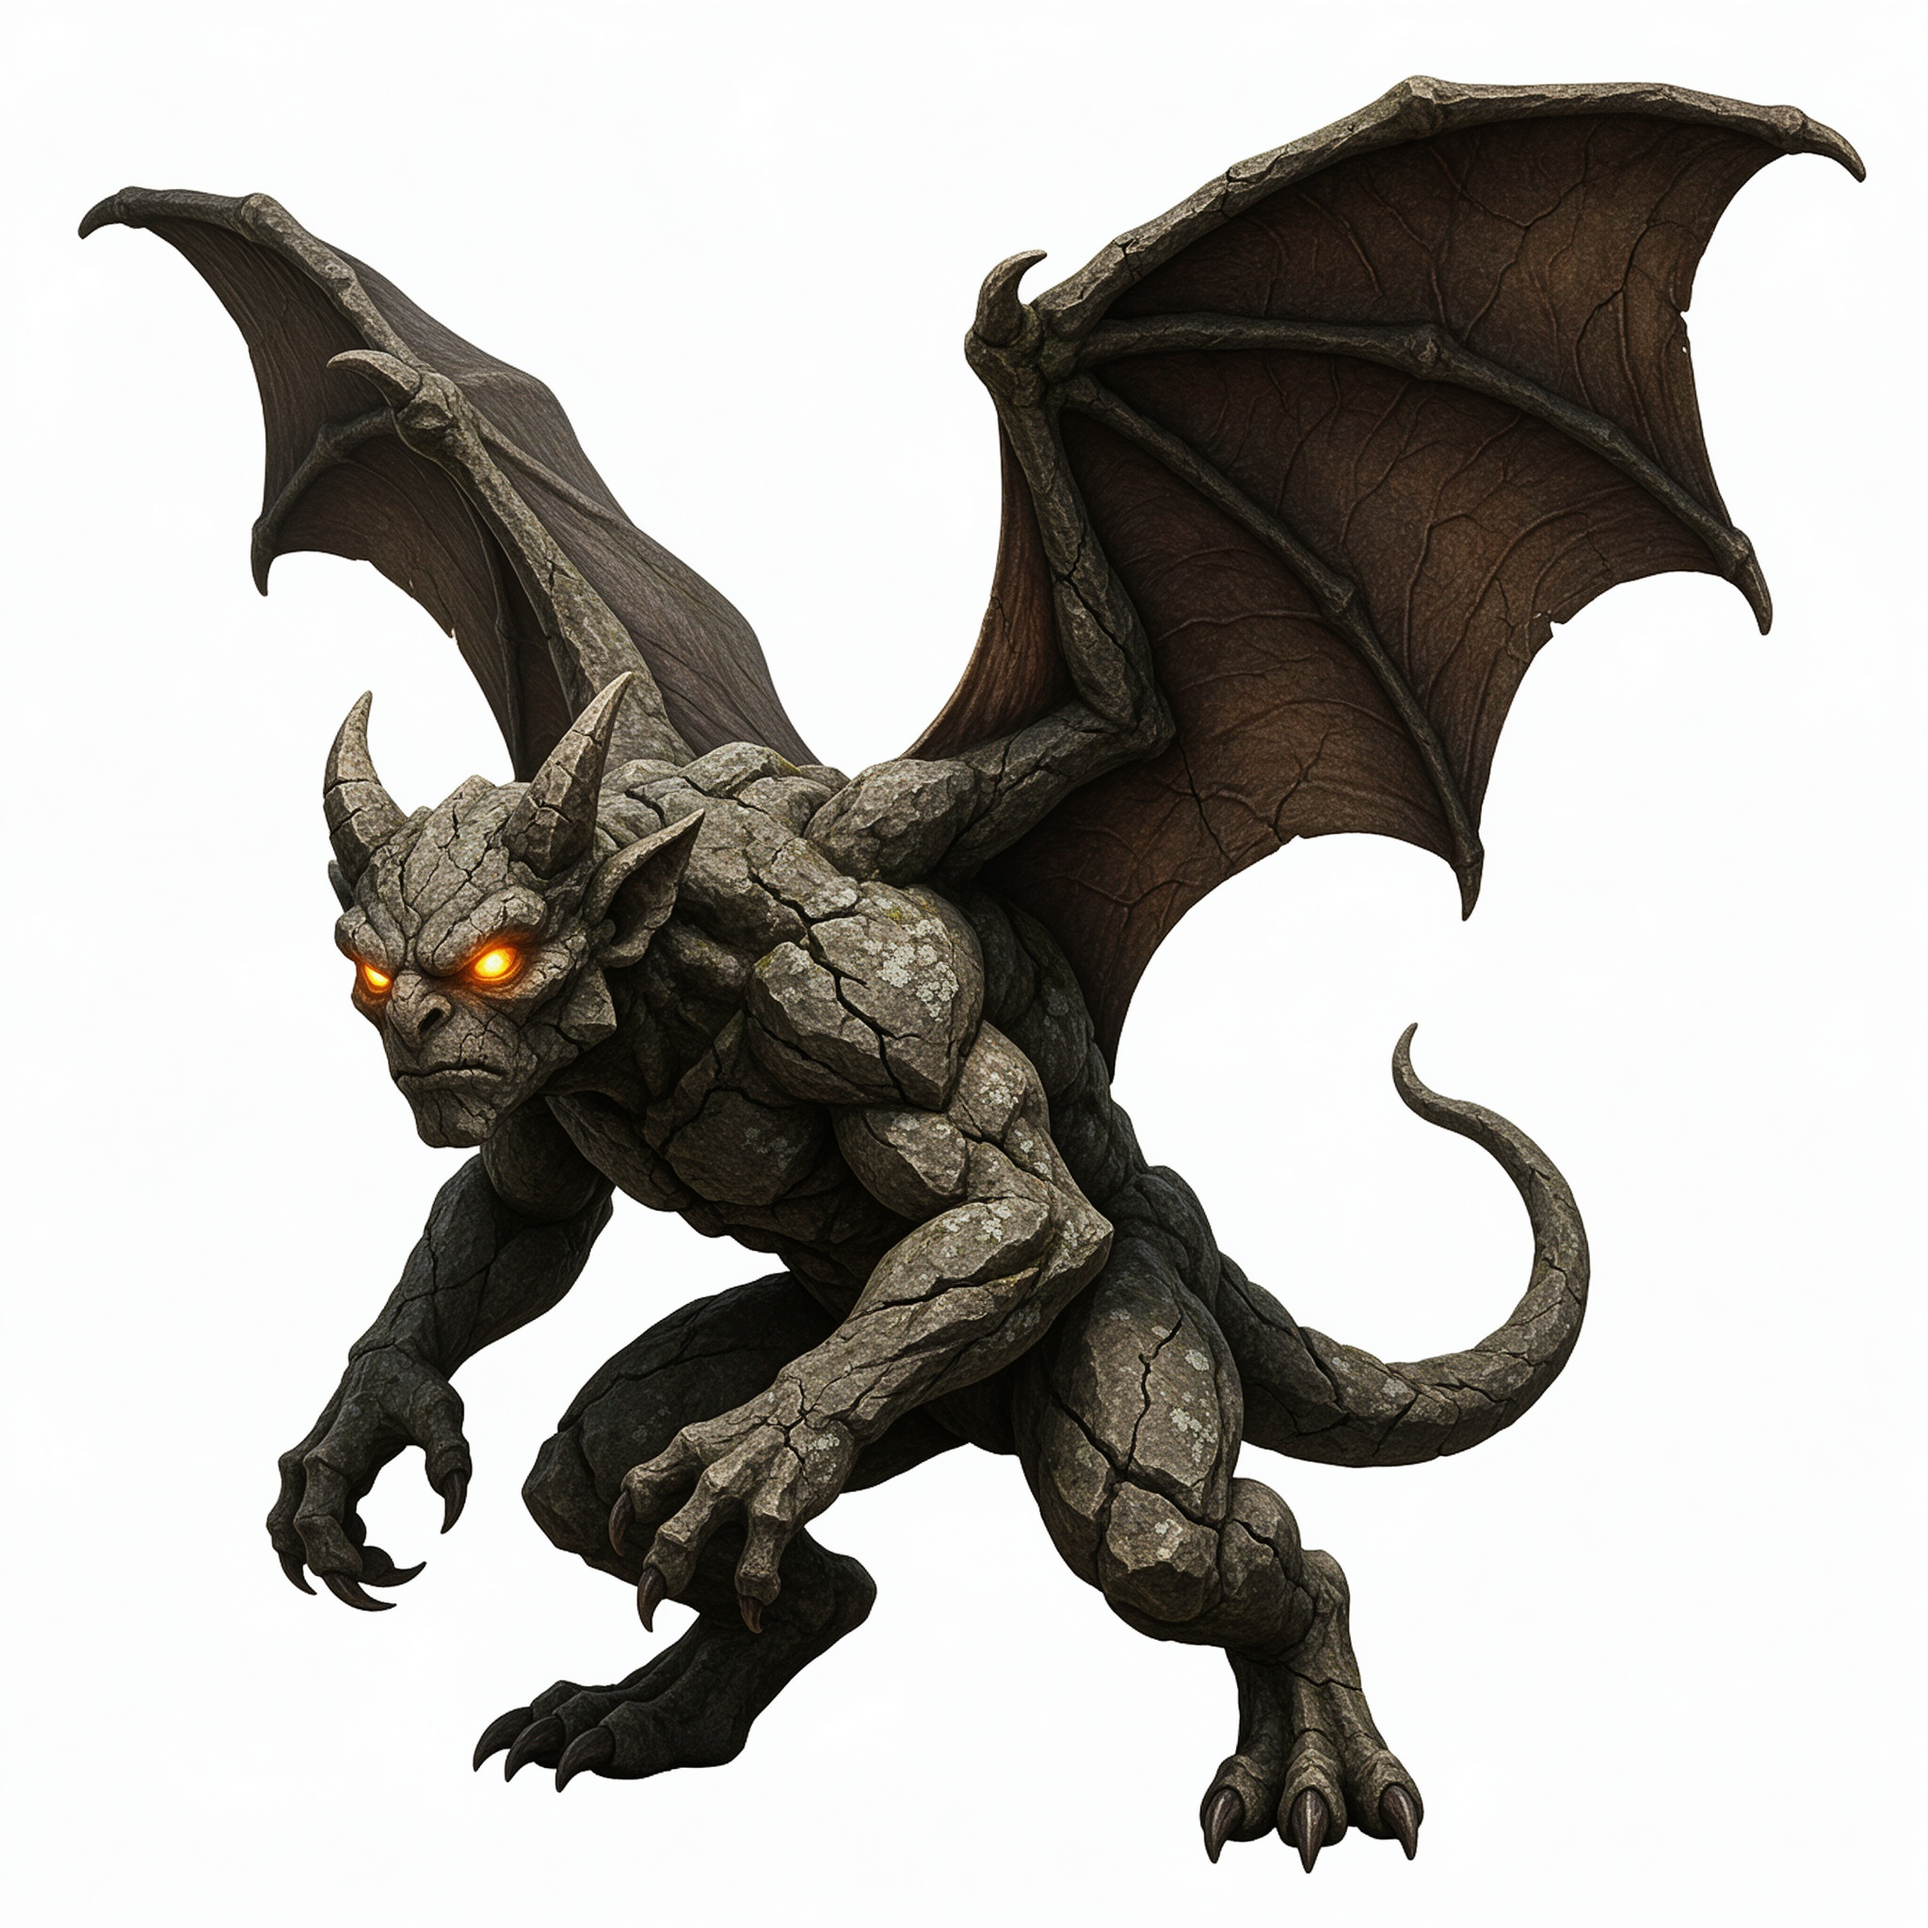
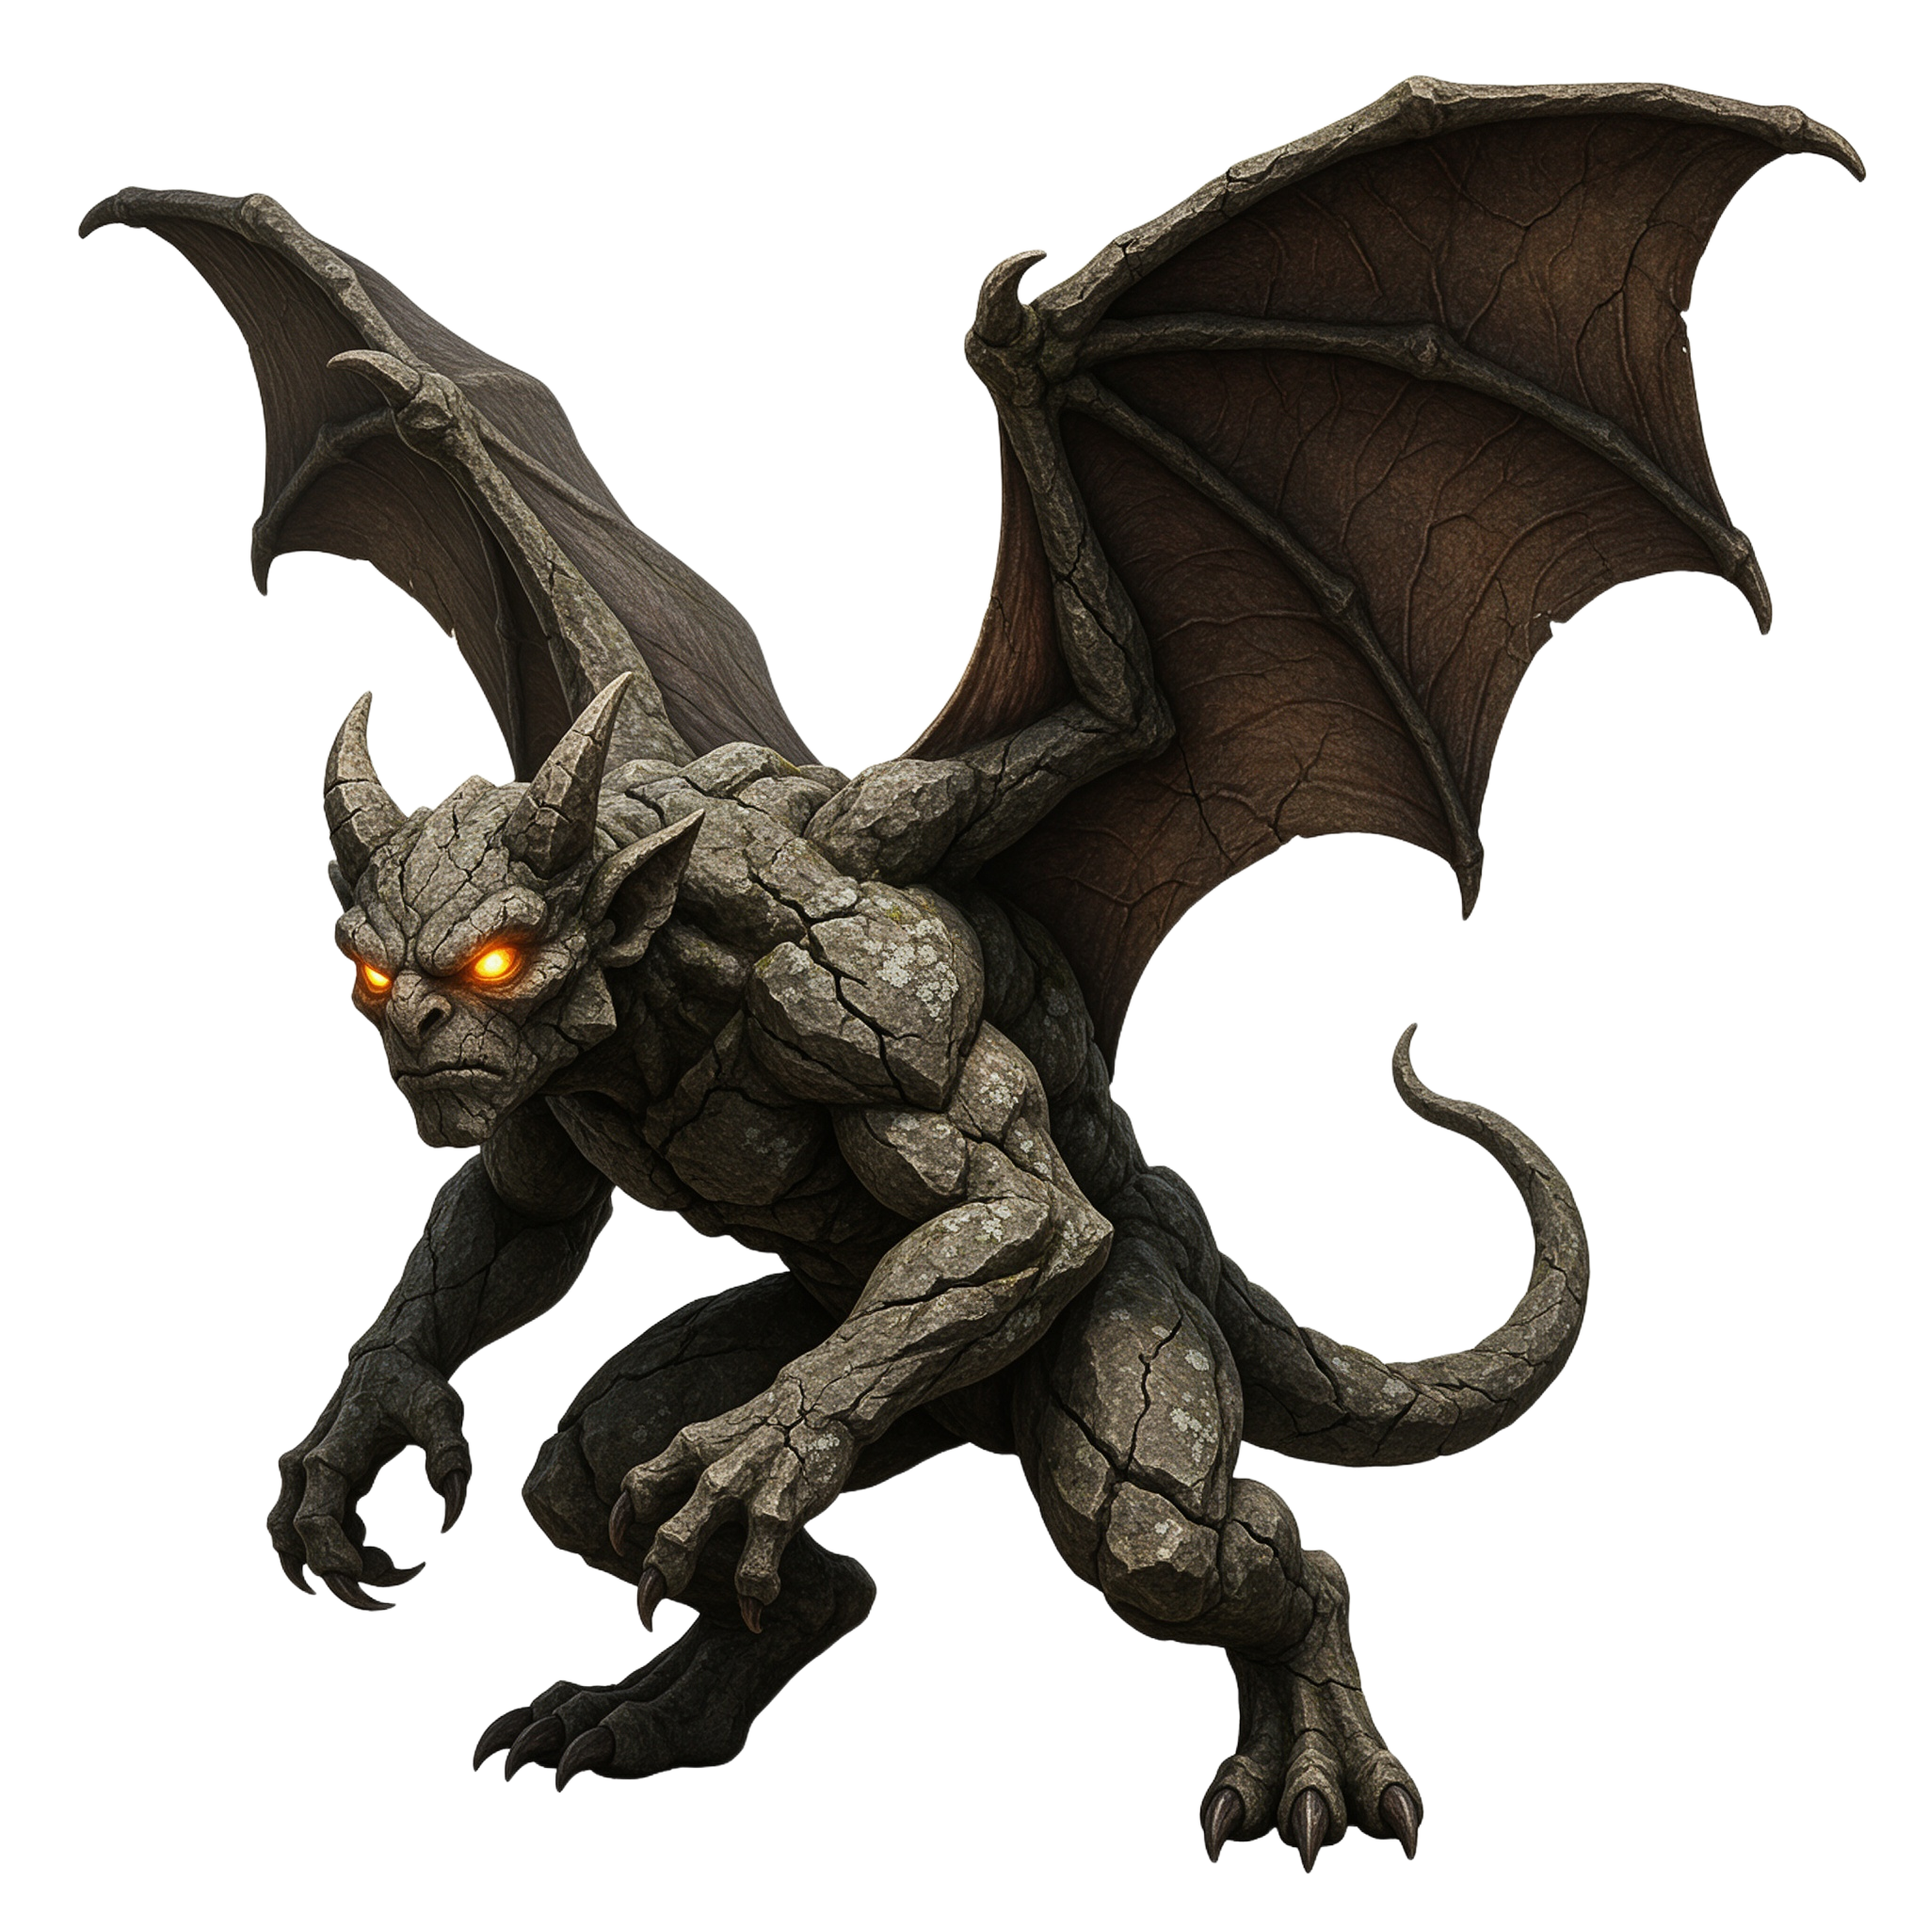
v2.6: Seedream5.0真实怪物贴图接入(蝙蝠/蜘蛛/狼/蝗虫/石魔像/树精/石像鬼/影魔/野猪王+T1T2Boss)+受击暗红血雾粒子

diff --git a/js/expedition.js b/js/expedition.js
@@ -152,21 +152,22 @@ class Expedition {
       sprite.src = `assets/obstacles/${type}.webp`;
       this.obstacleSprites[type] = sprite;
     });
-    ['bat', 'spider', 'boar'].forEach(type => {
-      this.monsterSprites[type] = {};
-      ['idle', 'attack', 'hit', 'death'].forEach(state => {
-        const sprite = new Image();
-        sprite.src = `assets/monsters/${type}-${state}.webp`;
-        this.monsterSprites[type][state] = sprite;
-      });
-    });
-    // v1.7 新怪物贴图
-    const newMobs = {
-      treant: 'docs/art/enemies/treant.png',
-      gargoyle: 'docs/art/enemies/gargoyle.png',
-      shadow_demon: 'docs/art/enemies/shadow_demon.png'
+    // v2.6 Seedream 5.0 真实怪物贴图（已去背景）
+    const v3mobs = {
+      bat: 'docs/art/enemies/bat_v3.png',
+      spider: 'docs/art/enemies/spider_v3.png',
+      boar: 'docs/art/enemies/boar_king_v3.png',
+      wolf: 'docs/art/enemies/wolf_v3.png',
+      locust: 'docs/art/enemies/locust_v3.png',
+      treant: 'docs/art/enemies/treant_v3.png',
+      gargoyle: 'docs/art/enemies/gargoyle_v3.png',
+      shadow_demon: 'docs/art/enemies/shadow_demon_v3.png',
+      boar_king: 'docs/art/enemies/boar_king_v3.png',
+      stone_golem: 'docs/art/enemies/stone_golem_v3.png',
+      't1-stone-maw': 'docs/art/enemies/boss_t1.png',
+      't2-storm-drake': 'docs/art/enemies/boss_t2.png'
     };
-    for (const [type, src] of Object.entries(newMobs)) {
+    for (const [type, src] of Object.entries(v3mobs)) {
       this.monsterSprites[type] = {};
       const img = new Image();
       img.src = src;
@@ -182,6 +183,8 @@ class Expedition {
     this.fxSprites.gargoyle.src = 'docs/art/mobfx/gargoyle_dive.png';
     this.fxSprites.shadow.src = 'docs/art/mobfx/shadow_blink.png';
     this.fxSprites.boar.src = 'docs/art/mobfx/boar_charge.png';
+    this.fxSprites.hitBlood = new Image(); this.fxSprites.hitBlood.src = 'docs/art/effects/hit_blood.png';
+    this.fxSprites.playerHit = new Image(); this.fxSprites.playerHit.src = 'docs/art/effects/player_hit.png';
     const t1BossSprite = new Image();
     t1BossSprite.src = 'assets/bosses/t1-stone-maw.webp';
     this.bossSprites.t1 = t1BossSprite;
@@ -2586,6 +2589,10 @@ class Expedition {
     }
     AudioManager.playMonsterHit(isBoss ? 'heavy' : (isCrit ? 'crit' : heavy ? 'heavy' : 'normal'), weaponId);
     if (isBoss) AudioManager.playBossHit();
+    if (this.fxSprites && this.fxSprites.hitBlood) {
+      this.fxParticles = this.fxParticles || [];
+      this.fxParticles.push({ img: this.fxSprites.hitBlood, x: hitX, y: hitY, life: 0.35, maxLife: 0.35, size: 60 });
+    }
   }
 
   spawnKillFeedback(target) {
@@ -3155,6 +3162,7 @@ class Expedition {
         arr[w++] = p;
       }
       arr.length = w;
+      if (this.fxParticles) for (const p of this.fxParticles) p.life -= dt;
     }
     // 伤害跳字：原地紧凑
     {
@@ -3939,6 +3947,18 @@ class Expedition {
       }
     });
 
+    // v2.6 血雾贴图粒子
+    if (this.fxParticles) {
+      this.fxParticles = this.fxParticles.filter(p => p.life > 0);
+      this.fxParticles.forEach(p => {
+        const sx = p.x - cam.x, sy = p.y - cam.y;
+        const a = clamp(p.life / p.maxLife, 0, 1);
+        ctx.save(); ctx.globalAlpha = a * 0.9;
+        const sz = p.size * (1.4 - a * 0.4);
+        ctx.drawImage(p.img, sx - sz/2, sy - sz/2, sz, sz);
+        ctx.restore();
+      });
+    }
     // 伤害跳字：上浮、渐隐，重击字号更大。
     this.damageNumbers.forEach(number => {
       const sx = number.x - cam.x, sy = number.y - cam.y;

diff --git a/index.html b/index.html
@@ -2024,28 +2024,28 @@
   <div id="toastContainer"></div>
 </div>
 
-  <script src="js/config.js?v=220"></script>
-  <script src="js/save.js?v=220"></script>
-  <script src="js/ui.js?v=220"></script>
-  <script src="js/card.js?v=220"></script>
-  <script src="js/farm.js?v=220"></script>
-  <script src="js/farm-expansion.js?v=220"></script>
-  <script src="js/warehouse.js?v=220"></script>
-  <script src="js/greenhouse.js?v=220"></script>
-  <script src="js/performance.js?v=220"></script>
+  <script src="js/config.js?v=230"></script>
+  <script src="js/save.js?v=230"></script>
+  <script src="js/ui.js?v=230"></script>
+  <script src="js/card.js?v=230"></script>
+  <script src="js/farm.js?v=230"></script>
+  <script src="js/farm-expansion.js?v=230"></script>
+  <script src="js/warehouse.js?v=230"></script>
+  <script src="js/greenhouse.js?v=230"></script>
+  <script src="js/performance.js?v=230"></script>
   <script src="vendor/pixi.min.js"></script>
-  <script src="js/pixi-renderer.js?v=220"></script>
-  <script src="js/expedition.js?v=220"></script>
-  <script src="js/difficulty-system.js?v=220"></script>
-  <script src="js/npc-system.js?v=220"></script>
-  <script src="js/tech-system.js?v=220"></script>
-  <script src="js/v080-ui.js?v=220"></script>
-  <script src="js/crop-expansion.js?v=220"></script>
-  <script src="js/crop-render-ext.js?v=220"></script>
-  <script src="js/combat-enhancement.js?v=220"></script>
-  <script src="js/achievement-system.js?v=220"></script>
-  <script src="js/loadout-system.js?v=220"></script>
-  <script src="js/game.js?v=220"></script>
+  <script src="js/pixi-renderer.js?v=230"></script>
+  <script src="js/expedition.js?v=230"></script>
+  <script src="js/difficulty-system.js?v=230"></script>
+  <script src="js/npc-system.js?v=230"></script>
+  <script src="js/tech-system.js?v=230"></script>
+  <script src="js/v080-ui.js?v=230"></script>
+  <script src="js/crop-expansion.js?v=230"></script>
+  <script src="js/crop-render-ext.js?v=230"></script>
+  <script src="js/combat-enhancement.js?v=230"></script>
+  <script src="js/achievement-system.js?v=230"></script>
+  <script src="js/loadout-system.js?v=230"></script>
+  <script src="js/game.js?v=230"></script>
 
   <!-- 星云序章：WebGL 粒子开场（CDN 加载失败时自动降级为静态背景） -->
   <script src="https://cdn.jsdelivr.net/npm/three@0.128.0/build/three.min.js"></script>
@@ -2056,8 +2056,8 @@
   <script src="https://cdn.jsdelivr.net/npm/three@0.128.0/examples/js/postprocessing/EffectComposer.js"></script>
   <script src="https://cdn.jsdelivr.net/npm/three@0.128.0/examples/js/postprocessing/RenderPass.js"></script>
   <script src="https://cdn.jsdelivr.net/npm/three@0.128.0/examples/js/postprocessing/UnrealBloomPass.js"></script>
-  <script src="js/nebula.js?v=220"></script>
-  <script src="js/nebula-text.js?v=220"></script>
+  <script src="js/nebula.js?v=230"></script>
+  <script src="js/nebula-text.js?v=230"></script>
 
   <!-- v2.0 农场大更新弹窗 -->
   <div id="processingModal" class="modal-overlay hidden" onclick="if(event.target===this)FarmUI.closeModal('processingModal')">
